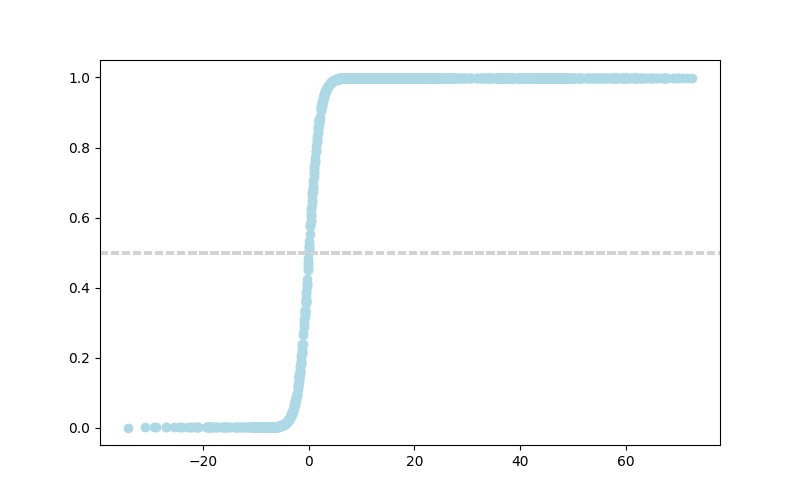
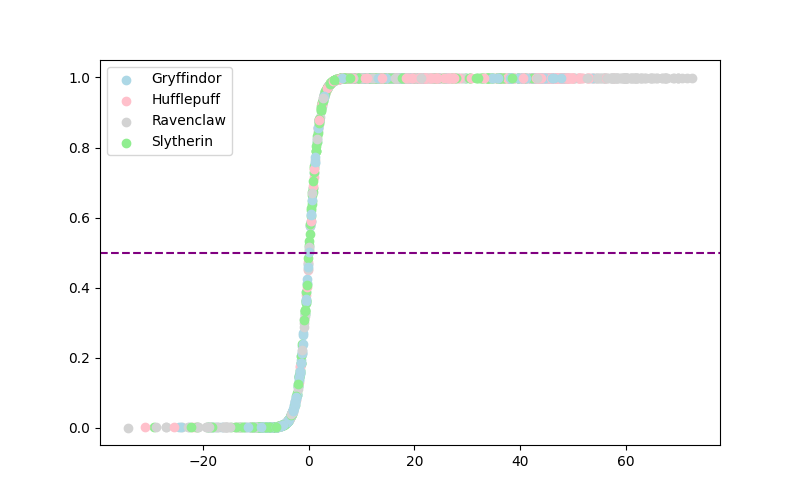
update s-curve legend - no duplicates

diff --git a/logreg_predict.py b/logreg_predict.py
@@ -1,5 +1,5 @@
 from utils import load, get_housename, normalize_column, open_thetas_file
-from matplotlib.pyplot import savefig, clf, close, figure, plot, axhline, scatter
+from matplotlib.pyplot import savefig, clf, close, figure, plot, axhline, scatter, legend, gca
 from pandas import concat, DataFrame
 from seaborn import pairplot
 from math import e
@@ -9,6 +9,7 @@ import ast
 
 def predict():
     houses = ["Gryffindor", "Hufflepuff", "Ravenclaw", "Slytherin"]
+    colors = {0: "lightblue", 1: "pink", 2: "lightgray", 3: "lightgreen"}
 
     ndf = load("dataset_test.csv")
     ndf = ndf.fillna(0)
@@ -48,9 +49,13 @@ def predict():
             z = dot(col, w[j]) + bias
             # print("z", z)
             predictions[i].insert(j, 1 / (1 + (e ** -z)))
-            scatter(z, 1 / (1 + (e ** -z)), color='lightblue', marker='o', label="Données réelles")
-            axhline(y=0.5, color='lightgray', linestyle='--', label="Seuil de décision (0.5)")
+            scatter(z, 1 / (1 + (e ** -z)), color=colors[j], marker='o', label=houses[j])
 
+    handles, labels = gca().get_legend_handles_labels() # récupère tous les labels.
+    by_label = dict(zip(labels, handles)) # garde seulement un exemplaire de chaque label.
+    legend(by_label.values(), by_label.keys()) # remplace la légende avec des labels uniques.
+
+    axhline(y=0.5, color='purple', linestyle='--', label="Seuil de décision (0.5)")
     savefig("output_scurve")
     clf()
     close()
@@ -78,7 +83,6 @@ def predict():
         print(f"There are {percent}% students from test data \
 who would probably belong to {houses[i]}")
 
-    colors = {0: "lightblue", 1: "pink", 2: "lightgray", 3: "lightgreen"}
     # index of category (0 to 3)
     categories = [i for i, x in enumerate(houses)]
 
